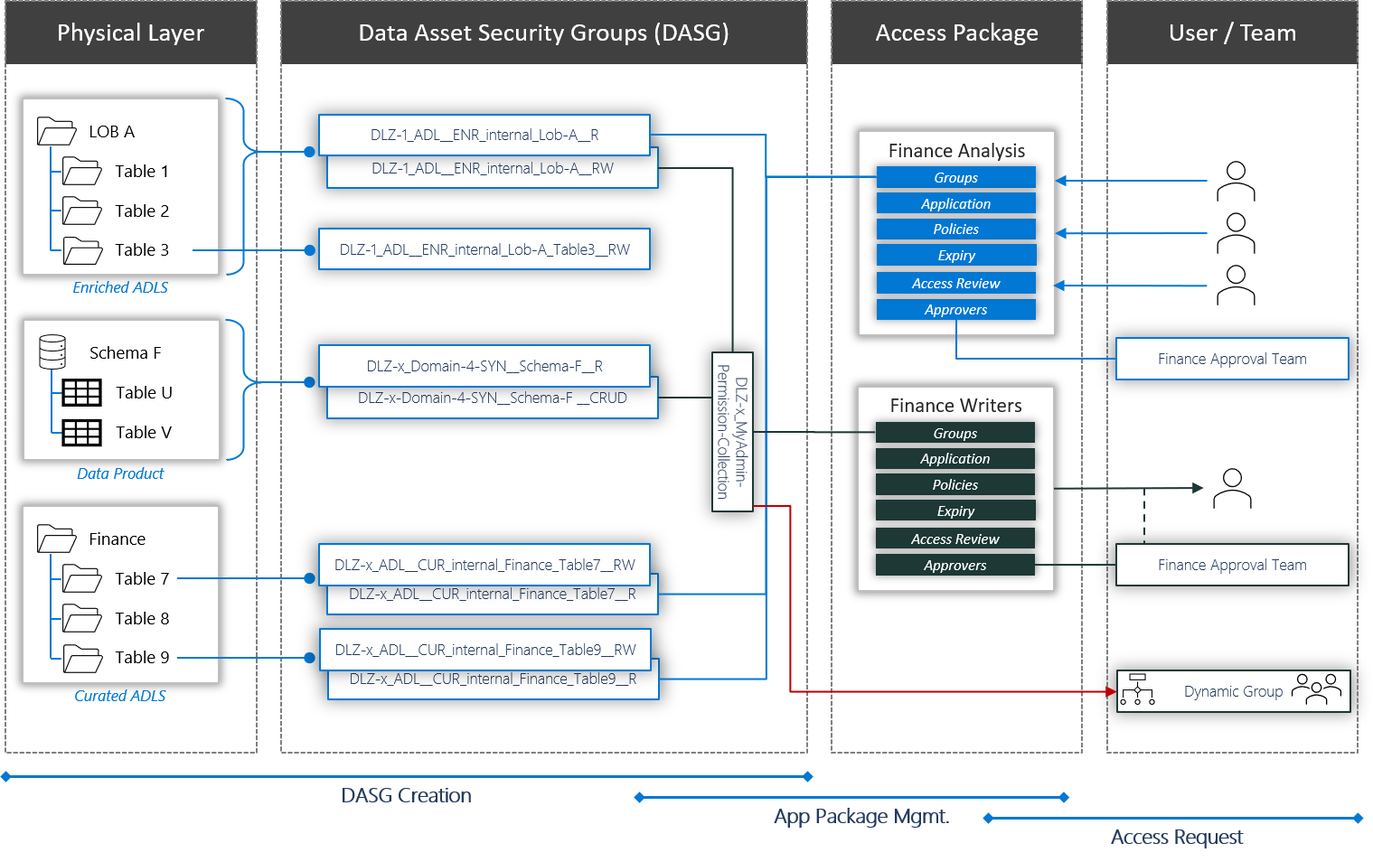
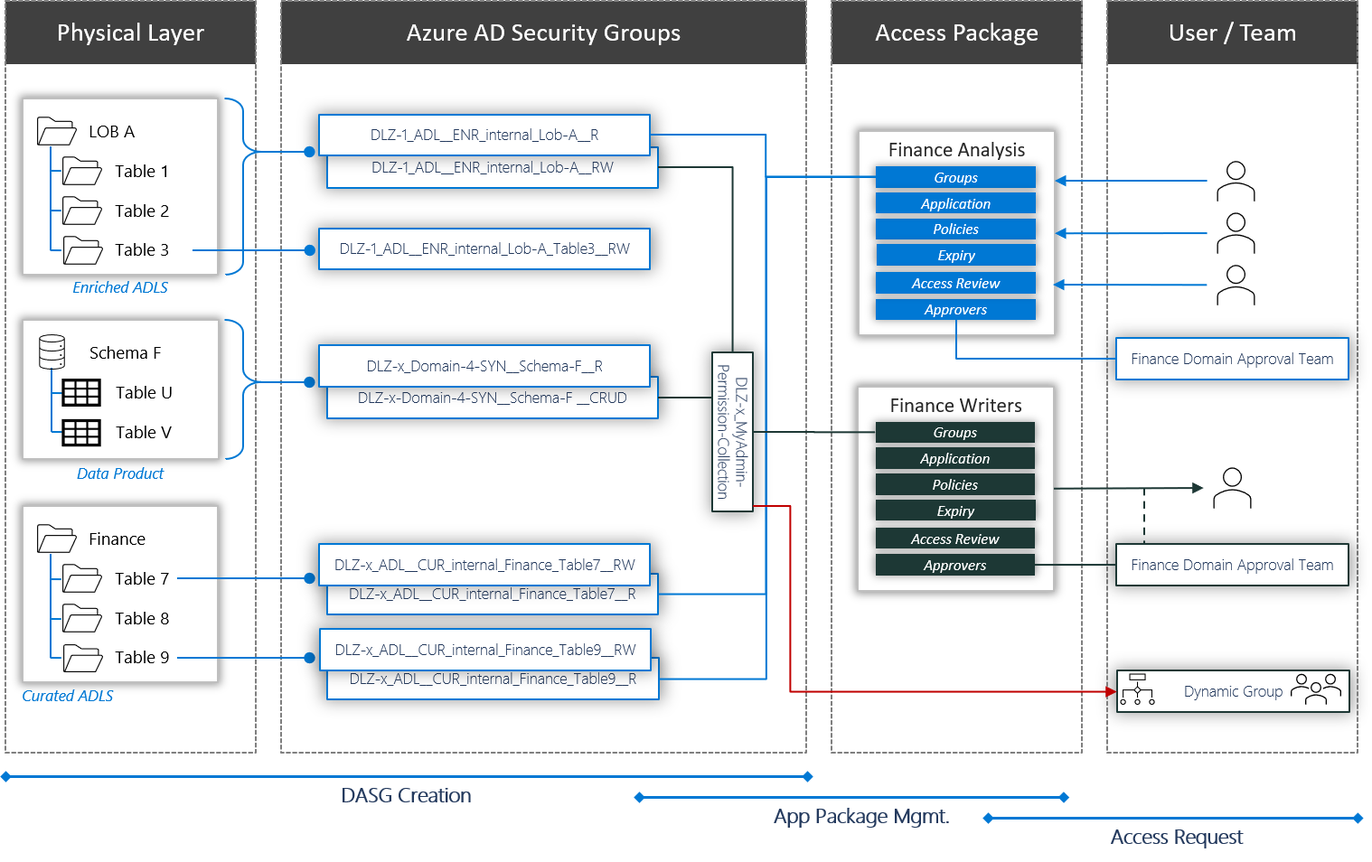
updates (#71)

diff --git a/docs/scenarios/data-management/security-provisioning.md b/docs/scenarios/data-management/security-provisioning.md
@@ -12,42 +12,14 @@ ms.subservice: ready
 
 # Security Provisioning
 
-## Data Lake Zones Security
+As outlined in both [Authentication](authentication.md) and [Authorization](analytics-role-based-access-control.md) are used to control access to services with the construction set. Specific guidance on setting up security, for a particular service, is contained in the best practice section for each product. For example the best practices section for Azure Data Lakes, gives insight how to think of granting access to datasets.
 
-![Data Lake Zones Security](./images/adls-security-zones.png)
+>[!Note]
+>Every business needs to define it's data governance process for the granularity of data access per data integration and data product.\
+>\
+>For example, data with a classification of *public* or *internal use only* might be secured by sources. Where as anything which is *confidential* or above is secured at dataset (table name) level. See [Data Governance Classification](requirements-for-governing-data-in-a-modern-enterprise.md#data-governance-classification) for classification types.
 
-The recommended security pattern for each of the of the Data Lake Zones is:
-
-- RAW should only allow access to data via SPNs
-- Enriched should only allow access to data via SPNs
-- Curated should allow access with both SPNs and UPNs.
-
-### Example Scenario for using Azure AD Security Groups with Non-Sensitive dataset
-
-There are many different ways to set up groups. For example, imagine that you have a directory named **/LogData** which holds log data that is generated by your server. Azure Data Factory (ADF) ingests data into that folder. Specific users from the service engineering team will upload logs and manage other users of this folder, and the **Azure Databricks Analytics and Data Science Workspace** clusters could analyze logs from that folder.
-
-To enable these activities, Integration Ops could create a `LogsWriter` group and a `LogsReader` group. You could then assign permissions as follows:
-
-- Add the `LogsWriter` group to the ACL of the **/LogData** directory with `rwx` permissions.
-- Add the `LogsReader` group to the ACL of the **/LogData** directory with `r-x` permissions.
-- Add the service principal object or Managed Service Identity (MSI) for ADF to the `LogsWriters` group.
-- Add users in the service engineering team to the `LogsWriter` group.
-- Databricks would be configured for Azure AD Passthrough to the Azure Data Lake Store.
-
-If a user in the service engineering team transfers to a different team, you could just remove them from the `LogsWriter` group. If you did not add that user to a group, but instead, you added a dedicated ACL entry for that user, you would have to remove that ACL entry from the **/LogData** directory. You would also have to remove the entry from all subdirectories and files in the entire directory hierarchy of the **/LogData** directory.
-
-## Databases Authentication and Permissions
-
-Other polyglot storage such as PostgreSQL, MySQL, Azure SQL Database, SQL Managed Instance, and Azure Synapse Analytics are likely to be used in the Enterprise Scale Analytic construction set. They could be used by Data Integrations to store their Read Data Stores or by Data Products.
-
-- [Use Azure Active Directory for authentication with PostgreSQL](/azure/postgresql/howto-configure-sign-in-aad-authentication)
-- [Use Azure Active Directory authentication with Azure SQL Database, SQL Managed Instance, and Azure Synapse Analytics](/azure/azure-sql/database/authentication-aad-overview)
-- [Use Azure Active Directory for authenticating with MySQL](/azure/mysql/concepts-azure-ad-authentication)
-
-It is recommended that Azure AD groups are used to secure database objects instead of individual Azure AD user accounts. These AD Azure Groups would be used to authenticate users and protects database objects. Similar to the data lake pattern, you could use your Data Integration or Data Products onboarding to create these groups within you Azure AD service.
-
->[!NOTE]
->Storing data inside an Azure SQL Database, SQL Managed Instance, and Azure Synapse Analytics Pools are one of the options for Data Integrations and Data Products to store [Sensitive Data](data-privacy.md#sensitive-data).
+## Automating Security
 
 In previous sections we have focused on ingesting different types of data and how we onboard data integrations and data products. The focus has been predominantly on using automation as much as possible.
 
@@ -61,9 +33,24 @@ At a minimum, the high level registration process should provide REST APIs to su
 
 The final step of creating an access package allows users to request access to the package and is based on features available within Azure AD Identity Governance.
 
-## Granting Access
+### Granting Access
 
-Onboarding new Data Integration uses cases or Data Products is handled via Azure Active Directory (Azure Active Directory) entitlement management.
+Enterprise Scale Analytics and AI construction set has centered around onboarding new Data Integration uses cases or Data Products via Azure Active Directory entitlement management.
+
+Azure Active Directory (Azure AD) entitlement management is an identity governance feature that enables organizations to manage identity and access lifecycle at scale, by automating access request workflows, access assignments, reviews, and expiration. For further insights and guidance on configuring this please see [What is Azure AD entitlement management?](/azure/active-directory/governance/entitlement-management-overview).
+
+The decision is based upon seeing scenarios where users receive access to a resource, they may hold on to access longer than is required for business purposes. Moving the entitlement packages allows delegate to non-administrators the ability to create access packages. These access packages contain resources, such as access to datasets, that users can request, and the delegated access package managers can define policies with rules for which users can request, who must approve their access, and when access expires.
+
+This video provides an overview of entitlement management and its value:
+
+>[!VIDEO <https://www.youtube.com/embed/_Lss6bFrnQ8>]
+
+We have to break our data access management into multiple tiers:
+
+- Physical layer such as the polygot which is storing the dataset
+- Azure Active Directory Groups (see above note on granularity)
+- Access Packages are a bundle of resources that a team or project needs and is governed with policies.
+- Users and Teams who wish to gain access to the dataset. Either by explicitly requesting or dynamic group membership based on there user metadata.
 
 :::image type="content" source="./images/granting-access.png" alt-text="Granting Access" lightbox="./images/granting-access.png":::
 
@@ -71,24 +58,34 @@ Onboarding new Data Integration uses cases or Data Products is handled via Azure
 
 As Figure 1 above illustrates:
 
-1. Integration Ops onboard the new dataset to a Data Landing Zone.
-2. A Data Asset Security Group (DASG) will be created and assigned to the dataset. A DASG is in fact an Azure Active Directory Group which could have been granted access to the data via AD Passthrough or via Table Access Control in Azure Databricks or Azure Synapse Analytics. The name of the AD Group should follow the recommended convention:
+1. Integration Ops or Data Products onboard the new dataset and/or product to a Data Landing Zone.
+2. An Azure Active Directory Group will be created and assigned to the dataset. This could been granted access to the data via AD Passthrough or via Table Access Control in Azure Databricks or Azure Synapse Analytics.
+
+    A suggested naming convention, for the AD Group, in the case of AD passthrough is:
 
    - Data Landing Zone Name
    - Data Integration
    - RAW for RAW, ENR for Enriched, CUR for Curated
    - Schema or Table Name
    - RW for Read Write and R for read only
+  
+    A suggested naming convention, for the AD Group, in the case of table access control is:
 
-3. Using Azure Active Directory entitlement management, we create Access Packages in the Data Landing Zone Access Packages Catalog. These Access Packages can contain multiple DASGs. In the figure above, the Finance Analysis Package gives access to Finance and LOB A, for example. The Finance Writers Package gives access to Schema F and LOB A.
+   - Data Landing Zone Name
+   - Data Product
+   - CUR for Curated
+   - Schema or Table Name
+   - RW for Read Write and R for read only
+
+3. Using Azure Active Directory entitlement management, we create Access Packages in the Data Landing Zone Access Packages Catalog. These Access Packages can contain multiple Azure Active Directory Groups. In the figure above, the Finance Analysis Package gives access to Finance and LOB A. Whilst, the Finance Writers Package gives access to Schema F and LOB A. Typically write should only be given to those who are creating the dataset. At all  other times read should be the default.
 4. Users request access to use these packages via Self-Service by browsing an access-package catalog or uses a direct link (from docs or the data catalog) to request access.
 5. Subject to policy and account, an approver is notified and reviews request via access management portal.
 6. If approved, the user will be notified and given access to the dataset.
 7. If the enterprise wants to grant permissions to user based on their metadata (*e.g.* division, title, or location), then [Creating or update a dynamic group in Azure Active Directory](/azure/active-directory/enterprise-users/groups-create-rule) could be used and this Dynamic Group could be added as an approved group to the access package.
 
->[!TIP]
->Although Figure 1 illustrates adding Azure AD User Groups, the same process could be achieved for adding Azure Service Principals which would be used by Data Product teams for ingestion pipelines etc.
->[!IMPORTANT]
+> [!IMPORTANT]
+> Although Figure 1 illustrates adding Azure AD User Groups, the same process could be achieved for adding Azure Service Principals which would be used by Data Product teams for ingestion pipelines etc.\
+>\
 >It is recommended that you set up two lifecycle settings. One for users to ask for access for a short time period (30 days) and another for requesting a longer period of access (90 days).
 
 ## Configuring Azure AD entitlement management
@@ -106,8 +103,8 @@ Figure 2 brings all of this together on how different personas would work togeth
 :::image type="content" source="./images/identity-governance-catalogs.png" alt-text="Identity Governance Catalogs" lightbox="./images/identity-governance-catalogs.png":::
 
 1. Data Platform Ops would create a catalog for each individual Data Landing Zone, and each can have their own group to create packages and manage permissions.
-1. Integration Ops owns the creation and management of Data Asset Security Groups (DASG). This is mostly handled via automated scripts that manage the creating and updating of security groups.
-1. A Data Manager, part of Integration Ops, can curate access packages and define which access and applications are included. The Access Packages are published to their respective catalogs. Access Packages are typically aligned to user profiles (*e.g.* base package for finance users). Access Packages can include expiration policies and access review policies. Special policies also exist for external guest users.
+1. Integration Ops and Data Product owns the creation and management of Data Asset Security Groups (DASG). This is mostly handled via automated scripts that manage the creating and updating of security groups.
+1. A Data Manager, part of Integration Ops or Data Product, can curate access packages and define which access and applications are included. The Access Packages are published to their respective catalogs. Access Packages are typically aligned to user profiles (*e.g.* base package for finance users). Access Packages can include expiration policies and access review policies. Special policies also exist for external guest users.
 1. Users browse packages in myaccess portal and can request access to these packages themselves. However a manager could also request that the AP-admin (requires assignment-manager role) grant their team access.
 1. Upon a request for access, the user must provide justification and submit.
 1. The delegated approver or Data Manager in Integration Ops can approve or reject the request.

diff --git a/docs/scenarios/data-management/data-sharing-agreements.md b/docs/scenarios/data-management/data-sharing-agreements.md
@@ -1,0 +1,38 @@
+---
+title: "Data Sharing Agreements"
+description: Data Sharing Agreements
+author: pstrengholt
+ms.author: pietheinstrengholt
+ms.date: 06/21/2020
+ms.topic: conceptual
+ms.service: cloud-adoption-framework
+ms.subservice: overview
+---
+
+# Data Sharing Agreements
+
+Although Enterprise Scale Analytics and AI uses Azure AD Entitlement management to control access and sharing of data, the enterprise might require a sharing and contract repository. As this is an organizational function, this repository should reside in the Data Management Landing Zone.
+
+The data usage phase is important to understanding how data is consumed or distributed within an organization to support the organization's objectives. In this phase, accountability and transparency must be ensured via data-sharing agreements. A data-sharing agreement is a formal contract that captures what data are being shared and how the data can be used. Such an agreement serves two purposes.
+
+## Ensuring stable delivery
+
+The first purpose of a data sharing agreement is to ensure stable delivery of data. The contract works like a service contract, which provides assurances to both data providers and data consumers. The data provider promises to make the delivery and describes the data format, such as schema. The contract guarantees interface compatibility and includes the terms of service and service level agreement (SLA). It describes how the data can be used, for example, only for development, testing, or production. A good SLA typically also describes the quality of data delivery and interface. This might include uptime, error rates, and availability, as well deprecation, a roadmap, and version numbers. The metadata capturing these details can be part of your ![source control](/azure/data-factory/source-control) to allow programmatically triggering validations and deployments.
+
+The benefit of data delivery contracts is that they provide insight into the amount of coupling and the number of dependencies between domains and applications. It also allows for [!contract testing](/azure/data-factory/continuous-integration-deployment#cicd-lifecycle) to ensure all application and interface changes are validated against the consumer's data requirements. For example, you can detect schema drift to detect data flows become vulnerable to upstream data source changes. For more information see: (/en-us/azure/data-factory/concepts-data-flow-schema-drift)
+
+Service contracts are one of the most important aspects of an enterprise-scale architecture. Once data products become popular and widely used, the need will quickly arise to implement versioning and manage compatibility and deployment. Without these disciplines in place, reusability can be low, and interfaces can break. On the most basic level it is recommended documenting contracts for all interfaces, including schemas (message formats and data) and transportation types, and their relationship to the applications.
+
+To enable discoverability and reuse it is recommended to make all contract discoverable, for example via source control. This allows domains to automate test routines in their continuous integration and deployment pipelines. By knowing what parts of the interfaces are consumed (such as columns and objects), teams can test routines to validate against any data that will be delivered or exposed. Test validating against the structure (columns names and types of values) guarantees compatibility and stable consumption at large.
+
+## Usage and restrictions
+
+The second aspect of data sharing agreements is to capture the usage aspects, such as intended usage, privacy and sensitivity, and purpose (including limitations). This information is interface independent and gives insights into what data is used for what particular purpose.
+
+Data sharing agreements also prevent miscommunication on the usage of data. Before data is shared, domains should talk in person to discuss data sharing and data usage issues and come to a collaborative understanding that will then be documented in a data sharing agreement. It is important to recognize that contexts between domains typically differ, so you might want to apply both ![classifications and conditions](/azure/purview/create-sensitivity-label) to consistently apply sensitivity labels across the organization.
+
+The process of capturing metadata within source control can also be applied on the data consuming side. You might require users to register and publish the purpose of their data consumption for the various use cases and agree not to distribute data further. This, for example, is important not only from a regulatory perspective, but also because it gives the data providers valuable information. It additionally will enable data security enforcement. For example, Azure Synapse Analytics can use all metadata to apply dynamic data masking, preventing unauthorized access to sensitive labeled data.
+
+## Compliance
+
+Data sharing agreements are key because they provide insights about the data supply chain and make service level contracts, controls, data quality rules, and data usage transparent to the organization. These contracts are typically stored in a (central) code repository or source control. Publishing these contracts centrally allows providers and consumers to resolve their data delivery and consumption issues themselves, without the support of a central team. This becomes essential once we start moving away from a siloed data-platform approach and empower autonomous teams.

diff --git a/docs/scenarios/data-management/authentication.md b/docs/scenarios/data-management/authentication.md
@@ -80,7 +80,30 @@ is the alternative for application and services which do not support managed ide
 | This identity has an independent lifecycle. It must be deleted explicitly.                                                      | When the Azure service instance is deleted, the identity is deleted.                                                                     |
 | Password-based (secret-based) or certificate-based authentication                                                               | No explicit password to be provided for authentication.                                                                                  |
 
-### Enterprise Scale Analytics and AI authentication guidelines (to be updated)
+## Databases Authentication and Permissions
+
+Polyglot storage such as PostgreSQL, MySQL, Azure SQL Database, SQL Managed Instance, and Azure Synapse Analytics are likely to be used in the Enterprise Scale Analytic construction set. They could be used by Data Integrations to store their Read Data Stores or by Data Products.
+
+- [Use Azure Active Directory for authentication with PostgreSQL](/azure/postgresql/howto-configure-sign-in-aad-authentication)
+- [Use Azure Active Directory authentication with Azure SQL Database, SQL Managed Instance, and Azure Synapse Analytics](/azure/azure-sql/database/authentication-aad-overview)
+- [Use Azure Active Directory for authenticating with MySQL](/azure/mysql/concepts-azure-ad-authentication)
+
+It is recommended that Azure AD groups are used to secure database objects instead of individual Azure AD user accounts. These AD Azure Groups would be used to authenticate users and protects database objects. Similar to the data lake pattern, you could use your Data Integration or Data Products onboarding to create these groups within you Azure AD service.
+
+>[!NOTE]
+>Storing data inside an Azure SQL Database, SQL Managed Instance, and Azure Synapse Analytics Pools are one of the options for Data Integrations and Data Products to store [Sensitive Data](data-privacy.md#sensitive-data).
+
+## Azure Data Lake Security with Enterprise Scale Analytics
+
+To control access to data in the data lake (ADLS Gen 2), we recommend using access control list (ACL) at the level of files and folders. ADLS Gen 2 also adopts POSIX-like access control list model. POSIX (Portable Operating System Interface) is the family of standards for operating systems, one of which defines a simple but yet powerful permission structure for accessing files and folders. POSIX has been adopted widely in network file shares and Unix computers.
+
+Similar to RBAC general practices, the following rules should apply to ACL
+
+- **Manage access using groups.** Assign access to Azure AD groups and manage membership of groups for on-going access management.
+- **Least privilege.** In most cases, users should have only Read permission to the folders and files they need in the data lake while a managed identity or service principal such as the one used by Azure Data Factory will have Read, Write and Execute permissions. Data users should not have access to the storage account container.
+- **Align with data partitioning scheme.** ACL and data partition design must align to ensure effective data access control. See [Data LakeData Partitioning](data-lake-services.md#data-lake-partitioning).
+
+<!-- ### Enterprise Scale Analytics and AI authentication guidelines (to be updated)
 
 | Data Service                                                                                                                            | Accessor                 | Authentication Provider                                       | Credential                     |
 |-----------------------------------------------------------------------------------------------------------------------------------------|--------------------------|---------------------------------------------------------------|--------------------------------|
@@ -107,3 +130,4 @@ Need to add... and update...
 
 - Azure Cosmos DB – Azure Cosmos DB does not support Azure AD authentication for access to database. Use Cosmos DB resource key to authenticate to Azure Cosmos DB.
 - Azure Analysis Services – Azure Analysis Services is the tabular semantic data model database in the cloud. Use Azure AD to authenticate to Azure Analysis Services.
+-->

diff --git a/docs/scenarios/data-management/data-lake-services.md b/docs/scenarios/data-management/data-lake-services.md
@@ -151,6 +151,10 @@ These datasets are usually of unknown quality and accuracy. They are still categ
 
 Sometimes these datasets mature, and the enterprise should consider how they promote these **Data Products** from the Workspace to the Curated Data Layer. In order to keep Data Product teams responsible for new Data Products, it is recommended to provide these teams a dedicated folder on the Curated Data Layer in which they can then then store the new results and share them with other teams across the organization.
 
+## Data Lake Partitioning
+
+sss
+
 ## Lifecycle Management
 
 Azure storage offers different access tiers, which allow you to store blob object data in the most cost-effective manner. The available access tiers include:
@@ -174,20 +178,26 @@ The Enterprise Analytics and AI construction set prescribes that you should impl
 
 ## Key Considerations
 
-When landing data into a data lake, it is important to pre-plan the structure of the data so that security, partitioning, and processing can be utilized effectively. Many of the following recommendations are applicable for all big data workloads. Every workload has different requirements on how the data is consumed.
+When landing data into a data lake, it is important to pre-plan the structure of the data so that security, partitioning, and processing can be utilized effectively. Many of the following recommendations are applicable for all big data workloads. Every workload has different requirements on how the data is consumed, therefore the list below general recommendation. Please work with your system integrator on the right level of AD groups for your implementation of this construction set.
+
+### Data Lake Access Control Lists Guideline
+
+- Create AD Groups to represent data products, datasets, data integrations or job functions and assign access to AD groups instead of individual users. This method simplifies operations and maintenance tasks because most of the time, as will only add and remove users to and from AD groups. Modifying ACL on files and folders in the data lake should not happen very frequently - typically at the moment of dataset creation. 
+- The lowest granularity for ACL is the dataset (table name) level which is represented by a folder in the data lake storage.
+- It is likely that existing groups in Azure AD are based on organizational structure. However, not all members in the same organizational unit need access to data in the data lake. It's best to define new AD groups based on their data roles and dataset grouping.
+- Default ACL on each dataset folder must include Read and Execute permissions. Execute permission is required for users to be able to traverse folder partitions and files under it. Access ACL assigned to an AD group on each dataset folder will include Read and Execute permissions.
+- Write permission should be given to a system through managed identity or service principal only because any changes should only be made by an ingestion, transformation, or maintenance process.
 
 ### Write data
 
 |Raw data |Enriched data |Curated data| Workspace data|
 |---------|---------|---------|---------|
-
 |Data Integration(s) | Data Integration(s) | Data Products(s) | Data Products, Data Scientists and BI Analysts|
 
 ### Read data
 
 |Raw data |Enriched data |Curated data| Workspace data|
 |---------|---------|---------|---------|
-
 | Data Integration | Data Integration and read access for others based on approval of Data Integration owner | Data Products, Analysts, Data Scientists, and Users | Data Scientists and Analysts|
 
 ### Data Lifecycle Management
@@ -200,7 +210,6 @@ When landing data into a data lake, it is important to pre-plan the structure of
 
 |Raw data |Enriched data |Curated data| Workspace data|
 |---------|---------|---------|---------|
-
 |Folder structure to mirror sensitivity followed by source. | Folder structure to mirror data integration followed by data asset | Folder structure mirrors data product structure |Folder structures mirror teams that the workspace is used by.|
 
 >[!WARNING]

diff --git a/docs/scenarios/data-management/data-lake-access.md b/docs/scenarios/data-management/data-lake-access.md
@@ -3,7 +3,7 @@ title: Azure Enterprise Scale Analytics and AI Teams Data Lake Access
 description: Understanding access control and data lake configurations in ADLS Gen2
 author:  mboswell
 ms.author:  mboswell # Microsoft employees only
-ms.date: 03/03/2021
+ms.date: 06/25/2021
 ms.topic: conceptual
 ms.service: cloud-adoption-framework
 ms.subservice: ready
@@ -138,3 +138,27 @@ The recommended security pattern for each of the of the Data Lake Zones is:
 ## Summary of Data Lake Access
 
 There is no single approach to managing data lake access that will suit everyone. One of the major benefits of a data lake is to democratize and provide friction-free access to data however in reality different organizations will have different levels of governance and control over their data. Some have a centralized team which manages access and the provisioning of AAD groups with rigorous internal controls. Some are more agile and have decentralized control. The approach chosen should meet the required level of governance but should not result in undue delays or friction in gaining access to data, otherwise the value of the data lake may be diminished, or even worse may result in silos, the very thing data lakes are designed to prevent.
+
+
+
+![Data Lake Zones Security](./images/adls-security-zones.png)
+
+The recommended security pattern for each of the of the Data Lake Zones is:
+
+- RAW should only allow access to data via SPNs
+- Enriched should only allow access to data via SPNs and UPNs
+- Curated should allow access with both SPNs and UPNs.
+
+### Example Scenario for using Azure AD Security Groups with Non-Sensitive dataset
+
+There are many different ways to set up groups. For example, imagine that you have a directory named **/LogData** which holds log data that is generated by your server. Azure Data Factory (ADF) ingests data into that folder. Specific users from the service engineering team will upload logs and manage other users of this folder, and the **Azure Databricks Analytics and Data Science Workspace** clusters could analyze logs from that folder.
+
+To enable these activities, Integration Ops could create a `LogsWriter` group and a `LogsReader` group. You could then assign permissions as follows:
+
+- Add the `LogsWriter` group to the ACL of the **/LogData** directory with `rwx` permissions.
+- Add the `LogsReader` group to the ACL of the **/LogData** directory with `r-x` permissions.
+- Add the service principal object or Managed Service Identity (MSI) for ADF to the `LogsWriters` group.
+- Add users in the service engineering team to the `LogsWriter` group.
+- Databricks would be configured for Azure AD Passthrough to the Azure Data Lake Store.
+
+If a user in the service engineering team transfers to a different team, you could just remove them from the `LogsWriter` group. If you did not add that user to a group, but instead, you added a dedicated ACL entry for that user, you would have to remove that ACL entry from the **/LogData** directory. You would also have to remove the entry from all subdirectories and files in the entire directory hierarchy of the **/LogData** directory.

diff --git a/docs/scenarios/data-management/frequently-asked-questions.md b/docs/scenarios/data-management/frequently-asked-questions.md
@@ -34,3 +34,13 @@ The following are common questions asked about Enterprise Scale Analytics and AI
 #### Why do I need three separate storage accounts? Can't I just have one with 3 containers for each layer (raw, refined, curated)?
 
 Most data analytics patterns today exist with the 3 layers (raw, refined, and curated). Although they can be kept in the same storage, when it comes to large scale implementations this creates issues with exceeding the number of allowed RBAC & ACL permissions that are available within a single storage account. By separating them most implementations can avoid this issue. With the evolution of technology it may change, as the refined/curated pieces are collapsed into other products such as Synapse and Databricks (under SQL Analytics).
+
+### Databricks
+
+#### Should we deploy a databricks workspace per product?
+
+The recommendation is to use the shared product databricks workspace inside the landing zone.
+
+This decision has been made to reduce the management overhead for the (data) platform ops team. Databricks has a set of stand-alone policies which aren't integrated into the Azure policies. In a large environment the setup of additional databricks workspaces creates additional management overhead (maintaining policies, updating supported hive version, updating ADB versions, enforcing external hive metastore, etc.). Therefore, there is no way how a central platform team can enforce certain settings within any of the databricks workspaces. For this reason, we are recommending to have shared workspaces for product teams in the landing zones, where the data platform Ops teams can then define the necessary cluster policies and init scripts etc.
+
+We are recommending to use Vnet Peering between Landing Zones and Private Endpoints. For Databricks we have to use Vnet injection. As there is direct line of sight to all endpoints, there are no connectivity issues.

diff --git a/docs/scenarios/data-management/manage.md b/docs/scenarios/data-management/manage.md
@@ -1,9 +1,9 @@
 ---
 title: "Manage 'data management and analytics' in Azure"
 description: Manage 'data management and analytics' in Azure
-author: BrianBlanchard
-ms.author: brblanch
-ms.date: 07/01/2010
+author: mboswell
+ms.author: mboswell
+ms.date: 06/25/2021
 ms.topic: conceptual
 ms.service: cloud-adoption-framework
 ms.subservice: operate
@@ -25,4 +25,4 @@ A focus of the Enterprise Scale Analytics and AI construction set is based on it
 
 Table 1: Key Management Principle
 
-When deploying the Enterprise Scale Analytics and AI you should consider these principle around automation to enable security as opposed relying upon manually applying them via human interaction. The most interaction the person should have is to approve or deny an access request.
+When deploying the Enterprise Scale Analytics and AI you should consider these principles around automation to enable security as opposed relying upon manually applying them via human interaction. The most interaction the person should have is to approve or deny an access request.

diff --git a/docs/scenarios/data-management/automated-ingestion-pattern.md b/docs/scenarios/data-management/automated-ingestion-pattern.md
@@ -13,7 +13,7 @@ ms.subservice: ready
 
 In previous topics [Azure Data Factory Ingest Considerations](data-ingestion.md#azure-data-factory-ingest-considerations) and [Ingestion and Processing Resource Group](data-landing-zone.md#ingestion-and-processing-resource-group), we have discussed enterprises building their own Custom Ingestion Framework.
 
-This section provides guidance for services and processes that could be driven by a Custom Ingestion Framework.
+This section provides guidance for services and processes that could be driven by a custom ingestion framework.
 
 >[!Note]
 >The processes described below do not constitute a Microsoft product nor are they a complete specification. They are suggestions for an Automated Ingestion Framework.
